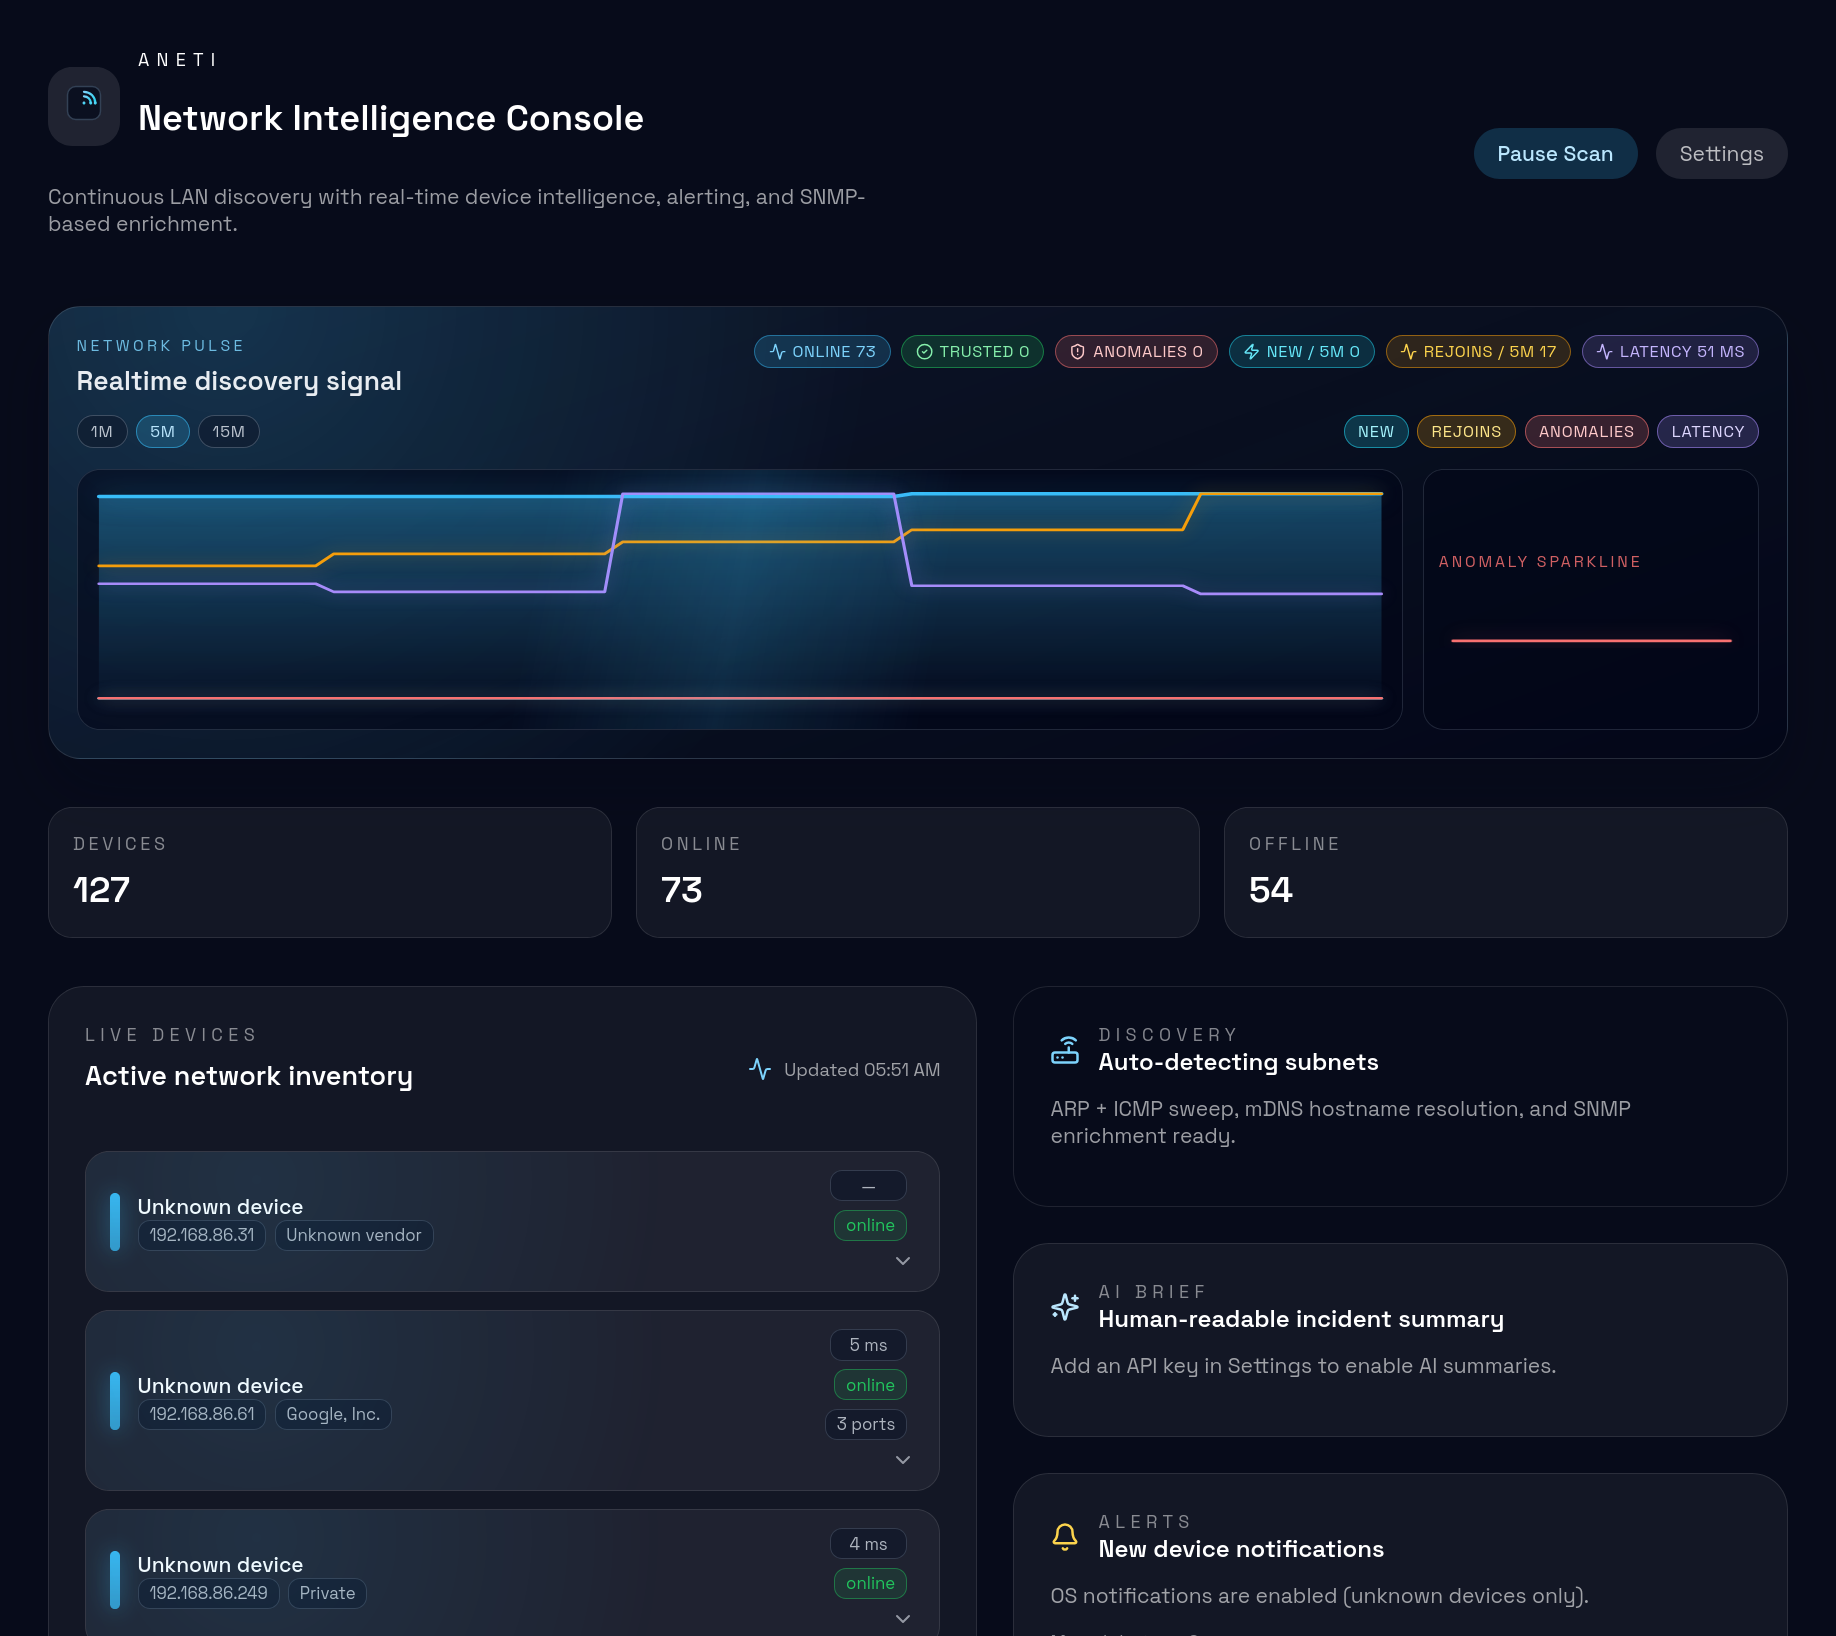
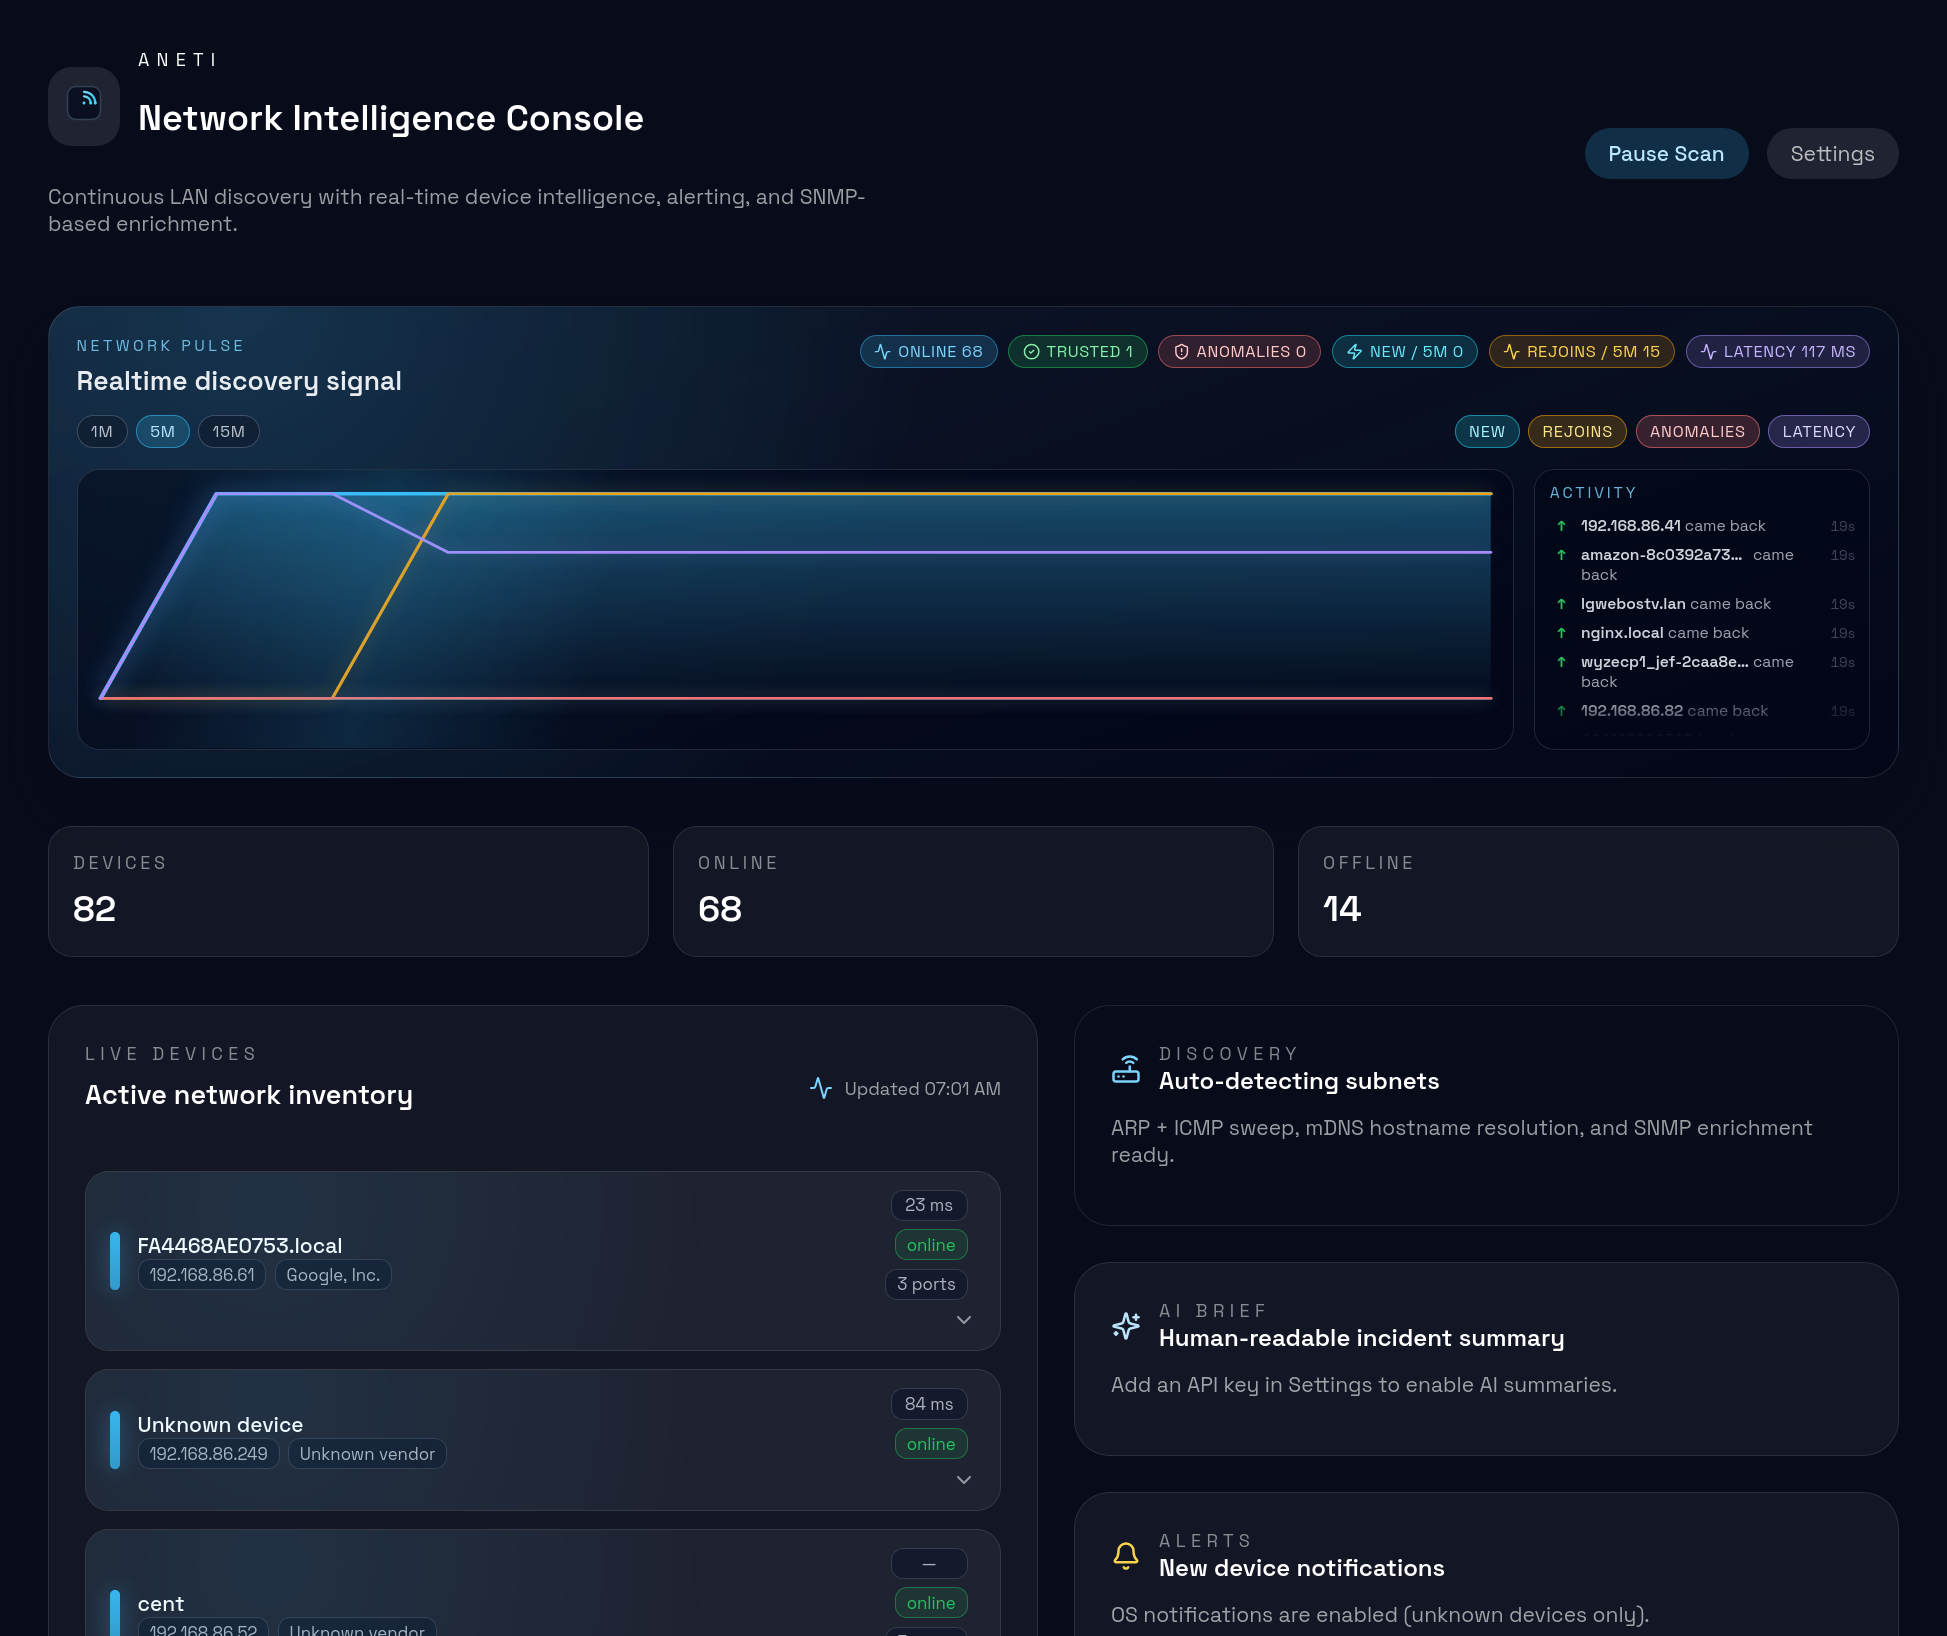
feat: replace mini visualization with live activity feed
Swaps the scan sweep radar for a real-time activity feed showing
device joins, departures, port discoveries, and anomaly flags.

diff --git a/src/renderer/src/App.tsx b/src/renderer/src/App.tsx
@@ -124,6 +124,15 @@ const formatDateTime = (value: number) =>
 const scanMaxHosts = 1024;
 const scanIntervalMs = 8000;
 
+const formatAgo = (ts: number) => {
+  const s = Math.floor((Date.now() - ts) / 1000);
+  if (s < 5) return 'now';
+  if (s < 60) return `${s}s`;
+  const m = Math.floor(s / 60);
+  if (m < 60) return `${m}m`;
+  return `${Math.floor(m / 60)}h`;
+};
+
 function StatCard({ label, value, tone }: { label: string; value: string; tone?: 'good' | 'warn' | 'info' }) {
   return (
     <div
@@ -235,24 +244,65 @@ function NetworkPulseHero({
   const rejoinPath = buildLinePath(rejoinSeries, maxRejoin);
   const latencyPath = buildLinePath(latencySeries, maxLatency);
 
-  const portMap = useMemo(() => {
-    const map = new Map<number, number>();
-    for (const device of devices) {
-      if (!device.openPorts) continue;
-      for (const port of device.openPorts) {
-        map.set(port, (map.get(port) ?? 0) + 1);
+  /* ── Activity feed ── */
+  type ActivityEvent = { id: number; ts: number; kind: 'joined' | 'left' | 'returned' | 'ports' | 'anomaly'; label: string; detail?: string };
+  const activitySeq = useRef(0);
+  const [activityEvents, setActivityEvents] = useState<ActivityEvent[]>([]);
+  const prevDeviceMap = useRef<Map<string, { status: string; ports: string; securityState?: string | null }>>(new Map());
+
+  useEffect(() => {
+    const prev = prevDeviceMap.current;
+    const next = new Map<string, { status: string; ports: string; securityState?: string | null }>();
+    const events: ActivityEvent[] = [];
+    const now = Date.now();
+
+    for (const d of devices) {
+      const name = d.label || d.hostname || d.ip;
+      const portsKey = (d.openPorts ?? []).join(',');
+      const old = prev.get(d.id);
+      next.set(d.id, { status: d.status, ports: portsKey, securityState: d.securityState });
+
+      if (!old) {
+        // Skip initial load flood - only emit if device was seen very recently
+        if (now - d.firstSeen < 30_000) {
+          events.push({ id: ++activitySeq.current, ts: now, kind: 'joined', label: name });
+        }
+        continue;
+      }
+      if (old.status !== 'online' && d.status === 'online') {
+        events.push({ id: ++activitySeq.current, ts: now, kind: 'returned', label: name });
+      } else if (old.status === 'online' && d.status !== 'online') {
+        events.push({ id: ++activitySeq.current, ts: now, kind: 'left', label: name });
+      }
+      if (old.ports !== portsKey && portsKey) {
+        const newPorts = (d.openPorts ?? []).filter((p) => !old.ports.split(',').includes(String(p)));
+        if (newPorts.length > 0) {
+          events.push({ id: ++activitySeq.current, ts: now, kind: 'ports', label: name, detail: newPorts.join(', ') });
+        }
+      }
+      if (!old.securityState && d.securityState === 'anomaly') {
+        events.push({ id: ++activitySeq.current, ts: now, kind: 'anomaly', label: name });
       }
     }
-    return Array.from(map.entries())
-      .sort((a, b) => b[1] - a[1])
-      .slice(0, 12);
+    // Detect devices that disappeared
+    for (const [id, old] of prev) {
+      if (!next.has(id) && old.status === 'online') {
+        events.push({ id: ++activitySeq.current, ts: now, kind: 'left', label: id });
+      }
+    }
+    prevDeviceMap.current = next;
+
+    if (events.length > 0) {
+      setActivityEvents((prev) => [...events, ...prev].slice(0, 50));
+    }
   }, [devices]);
 
-  const radarSize = 180;
-  const radarCx = radarSize / 2;
-  const radarCy = radarSize / 2;
-  const radarR = radarSize / 2 - 24;
-  const maxPortCount = Math.max(1, ...portMap.map(([, count]) => count));
+  // Tick "ago" labels every 10s
+  const [, setAgeTick] = useState(0);
+  useEffect(() => {
+    const id = setInterval(() => setAgeTick((n) => n + 1), 10_000);
+    return () => clearInterval(id);
+  }, []);
 
   return (
     <section className="mt-8 pulse-hero">
@@ -354,40 +404,30 @@ function NetworkPulseHero({
         </div>
 
         <div className="pulse-mini">
-          <div className="pulse-mini-label pulse-mini-label--accent">Port Radar</div>
-          <svg viewBox={`0 0 ${radarSize} ${radarSize}`} className="radar-svg">
-            <circle cx={radarCx} cy={radarCy} r={radarR * 0.33} className="radar-ring" />
-            <circle cx={radarCx} cy={radarCy} r={radarR * 0.66} className="radar-ring" />
-            <circle cx={radarCx} cy={radarCy} r={radarR} className="radar-ring" />
-            {portMap.length === 0 && (
-              <text x={radarCx} y={radarCy} textAnchor="middle" dominantBaseline="central" className="radar-empty">
-                Scanning…
-              </text>
-            )}
-            {portMap.map(([port, count], i) => {
-              const angle = (i / Math.max(portMap.length, 1)) * Math.PI * 2 - Math.PI / 2;
-              const tipX = radarCx + Math.cos(angle) * radarR;
-              const tipY = radarCy + Math.sin(angle) * radarR;
-              const labelX = radarCx + Math.cos(angle) * (radarR + 14);
-              const labelY = radarCy + Math.sin(angle) * (radarR + 14);
-              const ratio = count / maxPortCount;
-              const dotR = radarR * (0.25 + ratio * 0.55);
-              const dotX = radarCx + Math.cos(angle) * dotR;
-              const dotY = radarCy + Math.sin(angle) * dotR;
-              return (
-                <g key={port}>
-                  <line x1={radarCx} y1={radarCy} x2={tipX} y2={tipY} className="radar-spoke" />
-                  <circle cx={dotX} cy={dotY} r={2.5 + ratio * 2.5} className="radar-dot">
-                    <title>{port}: {count} {count === 1 ? 'device' : 'devices'}</title>
-                  </circle>
-                  <text x={labelX} y={labelY} textAnchor="middle" dominantBaseline="central" className="radar-label">
-                    {port}
-                  </text>
-                </g>
-              );
-            })}
-            <circle cx={radarCx} cy={radarCy} r={2.5} className="radar-center" />
-          </svg>
+          <div className="pulse-mini-label pulse-mini-label--accent">Activity</div>
+          <div className="activity-feed">
+            {activityEvents.length === 0 && <div className="activity-empty">Waiting for changes...</div>}
+            {activityEvents.map((evt) => (
+              <div key={evt.id} className={cn('activity-item', `activity-item--${evt.kind}`)}>
+                <span className="activity-icon">
+                  {evt.kind === 'joined' && '+'}
+                  {evt.kind === 'returned' && '↑'}
+                  {evt.kind === 'left' && '↓'}
+                  {evt.kind === 'ports' && '⬡'}
+                  {evt.kind === 'anomaly' && '!'}
+                </span>
+                <span className="activity-text">
+                  <span className="activity-label">{evt.label}</span>
+                  {evt.kind === 'joined' && ' joined'}
+                  {evt.kind === 'returned' && ' came back'}
+                  {evt.kind === 'left' && ' went offline'}
+                  {evt.kind === 'ports' && <> ports {evt.detail}</>}
+                  {evt.kind === 'anomaly' && ' flagged'}
+                </span>
+                <span className="activity-ago">{formatAgo(evt.ts)}</span>
+              </div>
+            ))}
+          </div>
         </div>
       </div>
     </section>

diff --git a/src/renderer/src/styles.css b/src/renderer/src/styles.css
@@ -518,37 +518,66 @@ button {
 .pulse-mini-label--accent {
   color: rgba(var(--accent-300-rgb), 0.84);
 }
-.radar-svg {
-  width: 100%;
-  aspect-ratio: 1;
-  margin-top: 0.3rem;
+.activity-feed {
+  display: flex;
+  flex-direction: column;
+  gap: 0;
+  margin-top: 0.35rem;
+  overflow-y: auto;
+  max-height: 150px;
+  scrollbar-width: thin;
+  scrollbar-color: rgba(148, 163, 184, 0.15) transparent;
+  mask-image: linear-gradient(to bottom, #000 80%, transparent 100%);
+  -webkit-mask-image: linear-gradient(to bottom, #000 80%, transparent 100%);
 }
-.radar-ring {
-  fill: none;
-  stroke: rgba(148, 163, 184, 0.12);
-  stroke-width: 0.8;
+.activity-empty {
+  font-size: 0.65rem;
+  color: rgba(148, 163, 184, 0.4);
+  padding: 1.2rem 0;
+  text-align: center;
 }
-.radar-spoke {
-  stroke: rgba(148, 163, 184, 0.15);
-  stroke-width: 0.7;
+.activity-item {
+  display: flex;
+  align-items: baseline;
+  gap: 0.3rem;
+  padding: 0.18rem 0;
+  font-size: 0.65rem;
+  line-height: 1.3;
+  color: rgba(226, 232, 240, 0.7);
+  animation: activity-in 0.3s ease-out;
 }
-.radar-center {
-  fill: rgba(var(--accent-400-rgb), 0.7);
+@keyframes activity-in {
+  from { opacity: 0; transform: translateY(-4px); }
+  to { opacity: 1; transform: translateY(0); }
 }
-.radar-dot {
-  fill: rgb(var(--accent-400-rgb));
-  filter: drop-shadow(0 0 4px rgba(var(--accent-400-rgb), 0.6));
-  transition: cx 0.6s ease, cy 0.6s ease, r 0.6s ease;
+.activity-icon {
+  flex-shrink: 0;
+  width: 1rem;
+  text-align: center;
+  font-weight: 700;
+  font-size: 0.6rem;
 }
-.radar-label {
-  font-size: 7px;
-  fill: rgba(226, 232, 240, 0.55);
+.activity-item--joined .activity-icon { color: rgba(var(--accent-400-rgb), 0.9); }
+.activity-item--returned .activity-icon { color: #22c55e; }
+.activity-item--left .activity-icon { color: rgba(148, 163, 184, 0.5); }
+.activity-item--ports .activity-icon { color: rgba(56, 189, 248, 0.8); }
+.activity-item--anomaly .activity-icon { color: #f87171; }
+.activity-label {
+  font-weight: 600;
+  color: rgba(226, 232, 240, 0.9);
+  max-width: 7rem;
+  overflow: hidden;
+  text-overflow: ellipsis;
+  white-space: nowrap;
+  display: inline-block;
+  vertical-align: bottom;
+}
+.activity-ago {
+  margin-left: auto;
+  flex-shrink: 0;
+  color: rgba(148, 163, 184, 0.4);
+  font-size: 0.58rem;
   font-variant-numeric: tabular-nums;
-}
-.radar-empty {
-  font-size: 9px;
-  fill: rgba(148, 163, 184, 0.5);
-  letter-spacing: 0.08em;
 }
 @keyframes pulse-sweep {
   0% { transform: translateX(-100%); }
